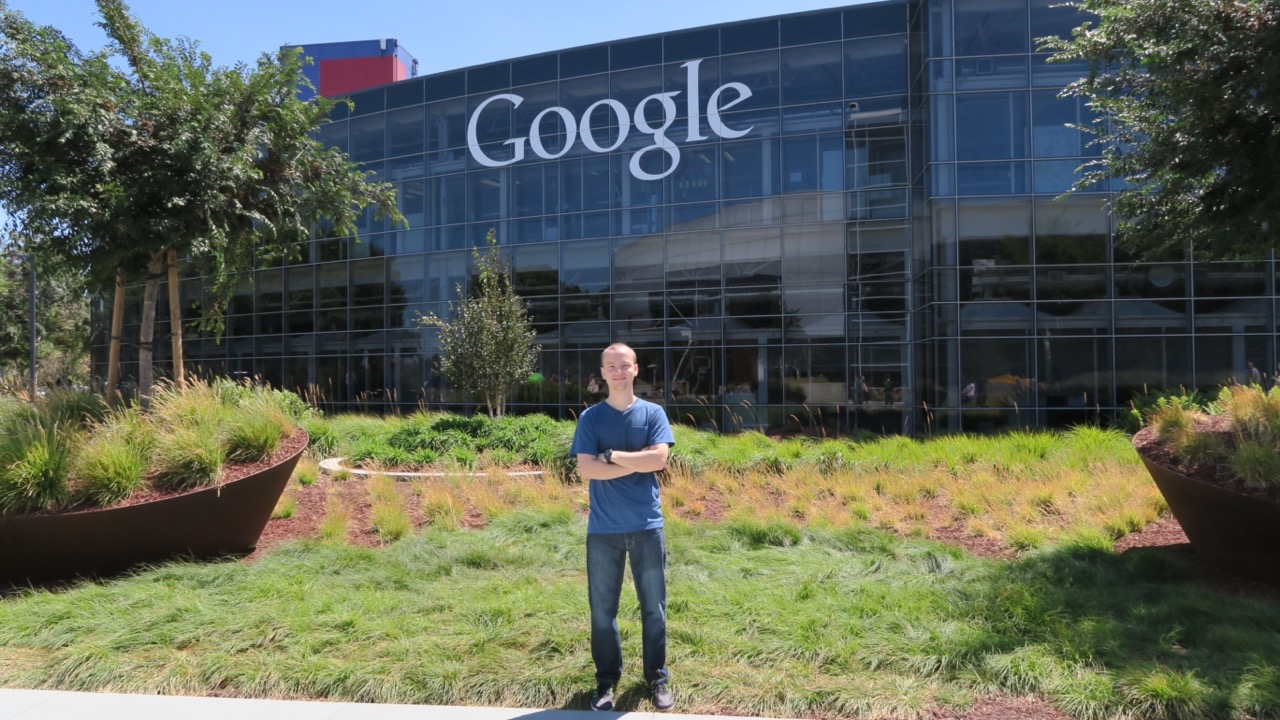
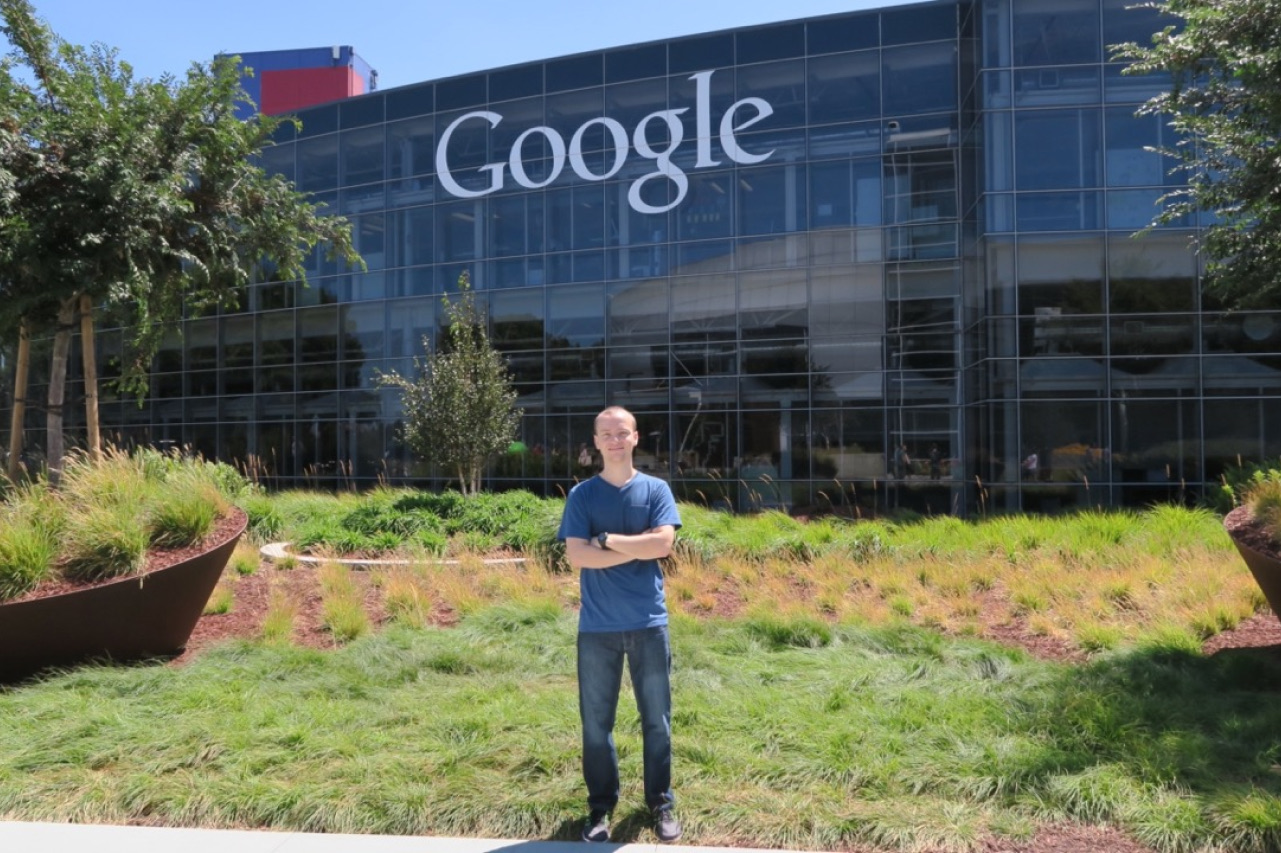
Add jpeg, update styles in About Navbar Skills modules.

diff --git a/src/components/About/About.jsx b/src/components/About/About.jsx
@@ -16,7 +16,7 @@ const accordionList = [
         ariaLabelledby: 'panel1-heading',
         contentParagraph1: `I'm grateful for the opportunities to work and learn, as they allow me to contribute to the world and expand my knowledge.`,
         contentParagraph2: `Spot: Oliwa, Gdańsk, PL.`,
-        imgSrc: './images/chicagoLarge.jpg',
+        imgSrc: './images/chicagoLarge.jpeg',
         imgAlt: `Bogdan's workspace in Gdańsk, with a laptop and a tablet`,
     },
 
@@ -30,9 +30,9 @@ const accordionList = [
         iconAlt: 'Happy family icon',
         panelContentId: 'panel2-content',
         ariaLabelledby: 'panel2-heading',
-        contentParagraph1: `Treasuring every moment with my beloved family, I am blessed to have them!`,
+        contentParagraph1: `Treasuring every moment with my beloved family, I am blessed to have them all!`,
         contentParagraph2: `Spot: Stare Miasto, Gdańsk, PL.`,
-        imgSrc: './images/gdanskLarge.jpg',
+        imgSrc: './images/gdanskLarge.jpeg',
         imgAlt: `Bogdan with his wife and three minor kids`,
     },
 
@@ -46,9 +46,9 @@ const accordionList = [
         iconAlt: 'Space rocket icon',
         panelContentId: 'panel3-content',
         ariaLabelledby: 'panel3-heading',
-        contentParagraph1: `Great family time at the space expo!`,
+        contentParagraph1: `Great family time with sones at the space expo!`,
         contentParagraph2: `Spot: Galeria Metropolia, Gdańsk, PL.`,
-        imgSrc: './images/spaceLarge.jpg',
+        imgSrc: './images/spaceLarge.jpeg',
         imgAlt: `Bogdan with his two sons at the space exhibition`,
     },
 
@@ -63,8 +63,8 @@ const accordionList = [
         panelContentId: 'panel4-content',
         ariaLabelledby: 'panel4-heading',
         contentParagraph1: `If you are ever in the Silicon Valley, check out the Googleplex! It is a truly amazing place.`,
-        contentParagraph2: `Spot: Mountain View, CA, USA.`,
-        imgSrc: './images/googleLarge.jpg',
+        contentParagraph2: `Spot: Mountain View, California, USA.`,
+        imgSrc: './images/googleLarge.jpeg',
         imgAlt: `Bogdan is next to Google Doodle wall`,
     },
 
@@ -80,7 +80,7 @@ const accordionList = [
         ariaLabelledby: 'panel5-heading',
         contentParagraph1: `The colossal stature of Sequoias is truly awe-inspiring, a once-in-a-lifetime encounter that transcends words.`,
         contentParagraph2: `Spot: Sequoia National Park, California, USA.`,
-        imgSrc: './images/sequoiaLarge.jpg',
+        imgSrc: './images/sequoiaLarge.jpeg',
         imgAlt: `Bogdan is next to the giant Sequoia`,
     },
 

diff --git a/src/components/About/Accordion/Accordion.module.css b/src/components/About/Accordion/Accordion.module.css
@@ -11,6 +11,7 @@
   display: flex;
   flex-direction: column;
   gap: 1rem;
+  padding: 0.5rem;
   contain: content;
 }
 
@@ -62,7 +63,7 @@
 
 @media (prefers-reduced-motion: no-preference) {
   .accordion-panel.open p {
-    transition: transform 600ms 500ms, opacity 600ms 500ms;
+    transition: transform 600ms 600ms, opacity 600ms 600ms;
   }
 }
 
@@ -98,7 +99,7 @@
 
 .accordion-title-span {
   color: var(--text-color);
-  font-size: 1.5rem;
+  font-size: 1.2rem;
   font-weight: 700;
   position: relative;
   isolation: isolate;

diff --git a/src/components/Skills/Skills.module.css b/src/components/Skills/Skills.module.css
@@ -20,7 +20,7 @@
 }
 
 .skills-grid {
-  grid-template-columns: repeat(1, 1fr 2fr);
+  grid-template-columns: repeat(1, 1fr 1fr);
 }
 
 .skills-heading {
@@ -80,7 +80,7 @@
 .cv-link-item {
   position: relative;
   color: var(--text-color);
-  font-size: 1.2rem;
+  font-size: 1.3rem;
   font-weight: 600;
   mix-blend-mode: screen;
 }

diff --git a/src/components/About/About.module.css b/src/components/About/About.module.css
@@ -42,8 +42,8 @@
 
 
 .about-content {
-  max-width: 500px;
-  justify-self: end;
+  /* max-width: 500px; */
+  /* justify-self: end; */
 }
 
 .about-content__paragraph {

diff --git a/src/components/Navbar/Navbar.module.css b/src/components/Navbar/Navbar.module.css
@@ -29,7 +29,7 @@
 }
 
 .header__logo-img {
-  width: 55px;
+  height: 55px;
 }
 
 .header__top-text {
